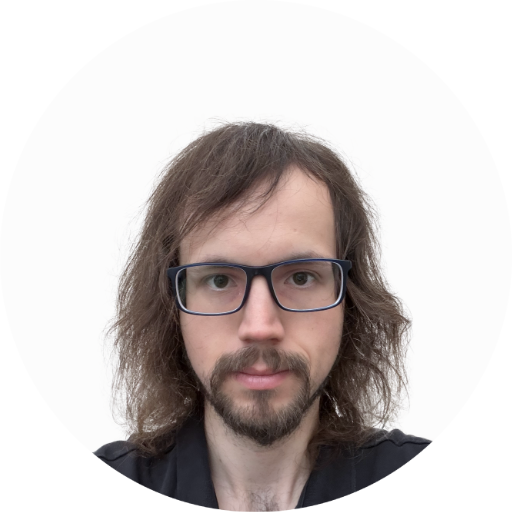
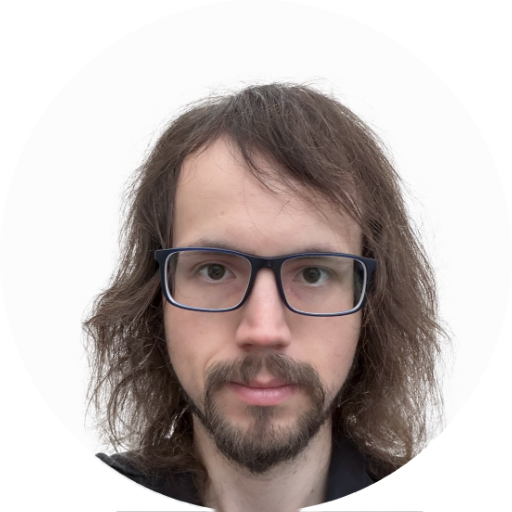
Updated profile photo

diff --git a/index.md b/index.md
@@ -3,7 +3,7 @@
 <img src="Content/Profile_photo_flat_512.png" alt="Portrait" width="190" height="190"><br>
 Junior 3D Technical Generalist | C/C++ | HLSL/GLSL | Unreal Engine | Modelling | Texturing | Rigging | Animating | Lighting<br><br>
 
-<a href="https://samuelbadman.com"><b>SHOWREEL</b></a><br><br>
+<a href="https://samuelbadman.com"><b>SHOWREEL (under development)</b></a><br><br>
 
 | <a href="https://linkedin.com/in/samuelbadman-dev"><b>Linkedin</b></a> |<br>
 | <a href="https://github.com/samuelbadman"><b>GitHub</b></a> |<br>
